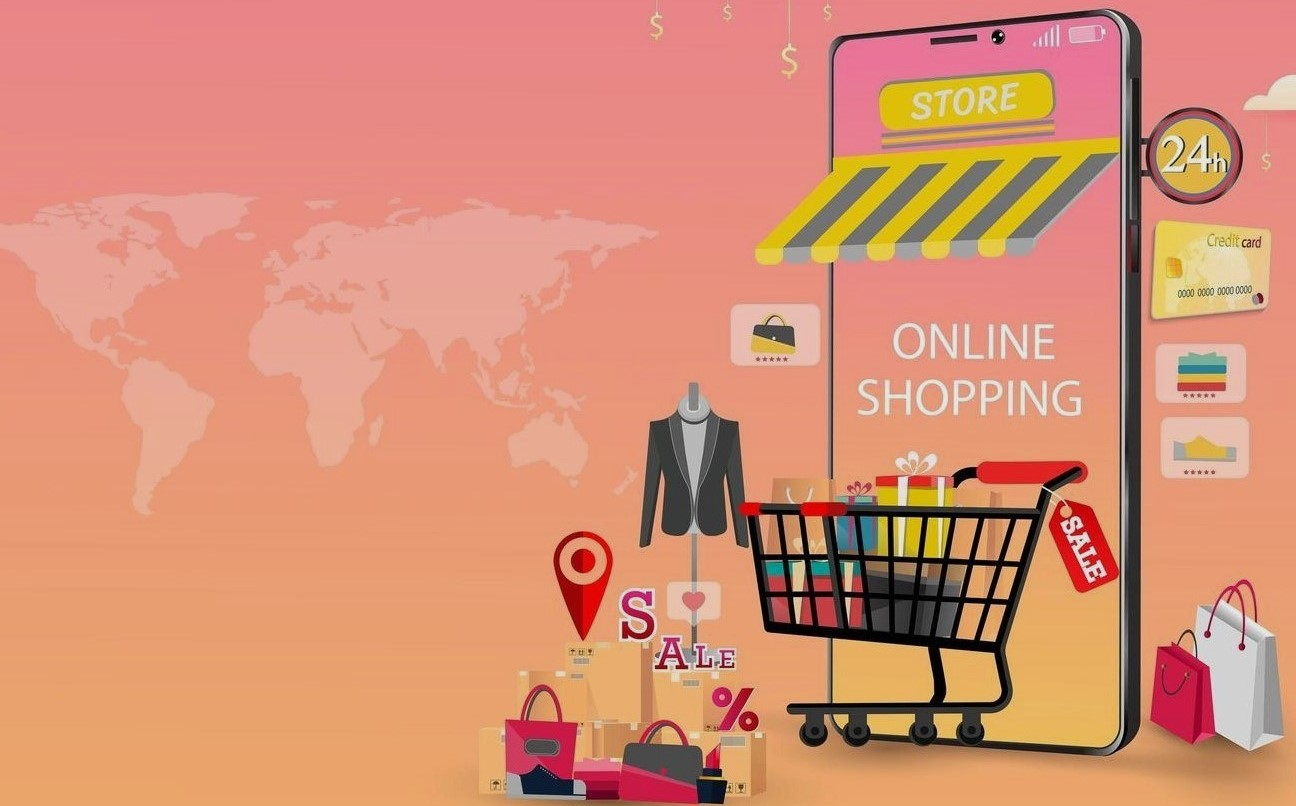
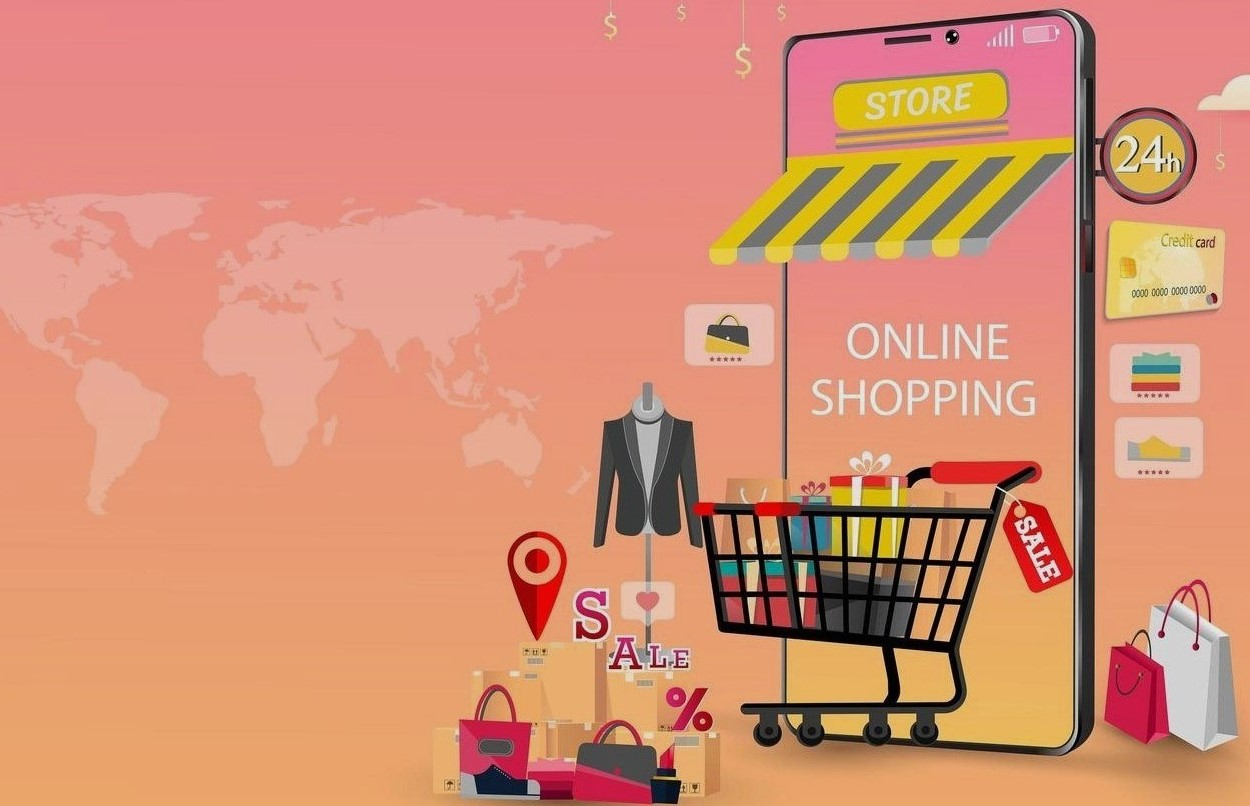
stucture and design create

diff --git a/css/home.css b/css/home.css
@@ -237,11 +237,15 @@
 .home-back-image{
     background-image: url(home-bg.jpg);
     height: 700px;
-    width: 1270px;
+    width: 1250px;
     color:papayawhip;
     font-size:45px;
     padding-top: 90px;
-}
+    border-radius:  20px 20px 20px 20px ;
+    padding-left: 10px;
+    margin-left: 10px;
+    margin-right:10px;
+} 
 .content-home-back-image{
     margin-left: 85px;
    
@@ -251,21 +255,7 @@
     margin-left: 25px;
     color:rgb(30, 53, 65);
 }
-
-
-
-
-
-
-
-
-
-
-
-
-
-
-/* .box1-men {
+ .box1-men {
     display: flex;
     min-height: 220px;
     height: 110px;
@@ -403,4 +393,4 @@
 }
 .food-1:hover{
     box-shadow:0 0 10px 5px  #b3ffff;
-}  */
+} 

diff --git a/home.html b/home.html
@@ -99,21 +99,7 @@
         <i class="content-home-back-image-i"></i><br>
         <i class="content-home-back-image-i"></i><br>
       </div>
-
-      <h1>hello</h1>
-
-
-
-
-
-
-
-
-
-
-
-
-      <!-- <div class="box1-men">
+ <div class="box1-men">
      <a href="pages/men.html">
        <img src="images/1box-men-1.jpg" alt="men img" class="men-1">
      </a>
@@ -247,7 +233,7 @@
     <a href="pages/online-food.html">
       <img src="images/6box-food-6.jfif" alt="food" class="food-1">
     </a>
-  </div>-->
+  </div>
 </body>
 
 </html>
